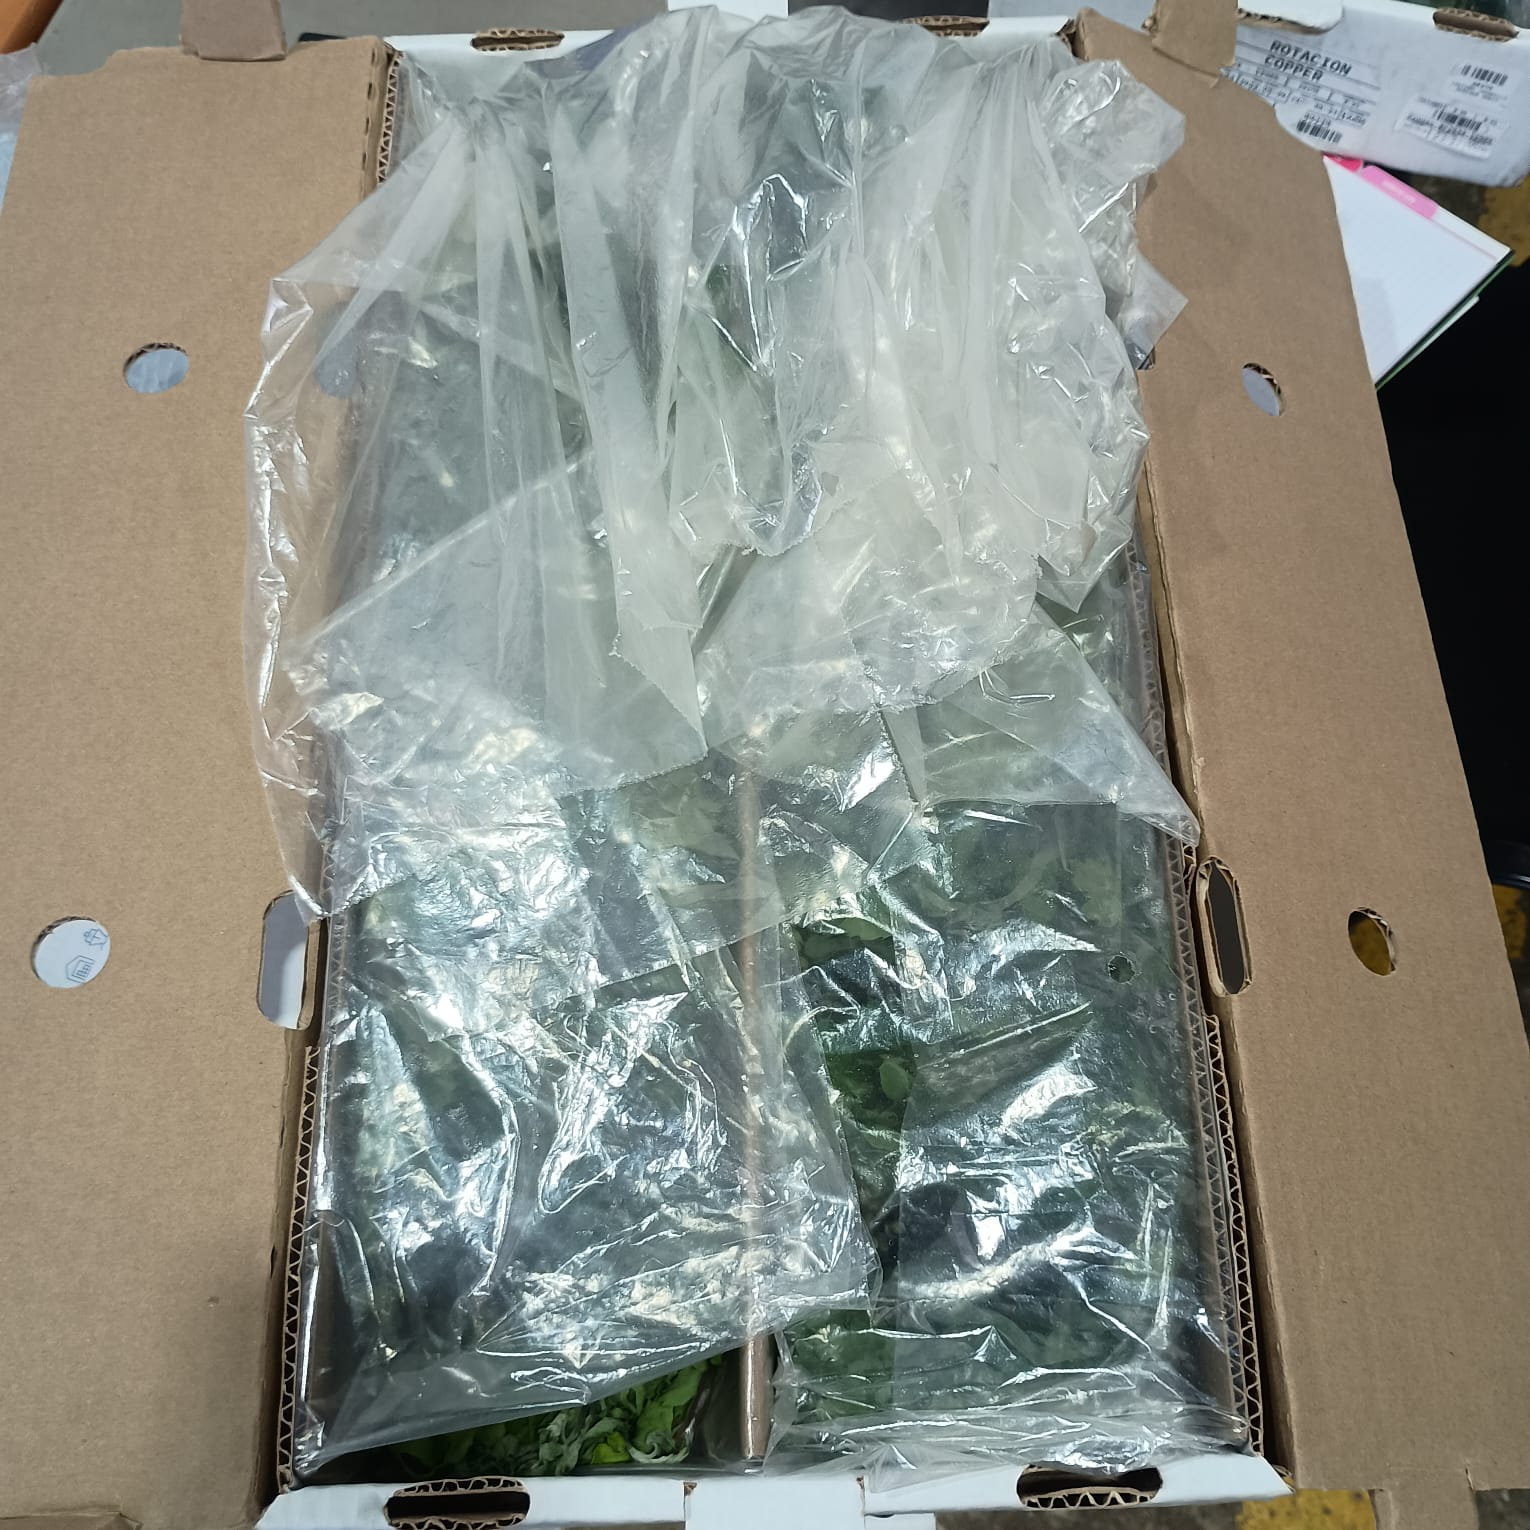
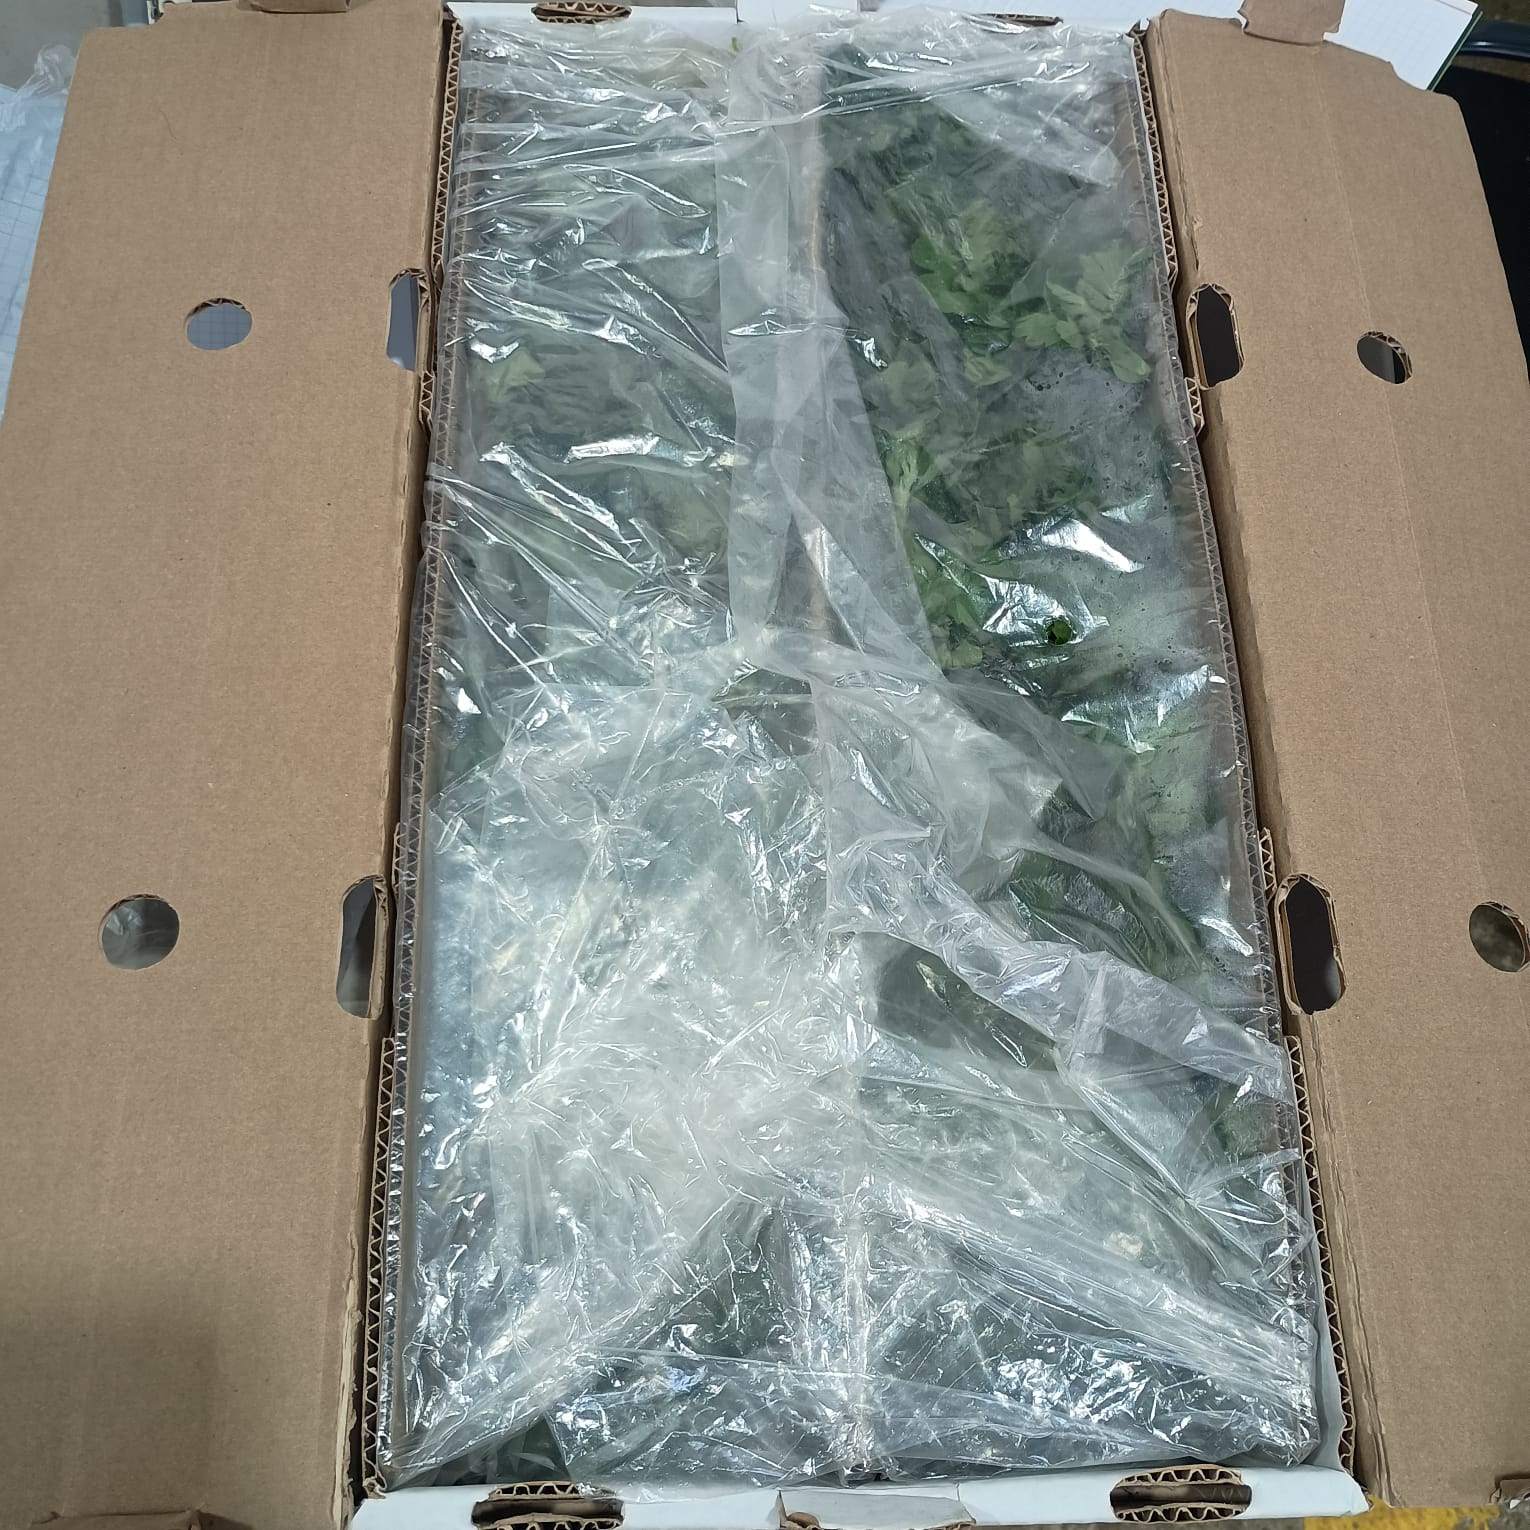
ajustes hasta la variedad #7

diff --git a/index.html b/index.html
@@ -215,7 +215,7 @@
               <a class="boton" href="muestra_6/m6.html">Ver Datos</a>
               <a class="boton boton-secundario" href="muestra_6/img_m6.html#muestra-6">Fotos</a>
             </td>
-            <td class="estado">Activo</td>
+            <td class="estado">No activo</td>
            </tr>
            <tr>
             <td class="numero">7</td>
@@ -242,11 +242,22 @@
            <tr>
             <td class="numero">9</td>
             <td class="variedad">Arctic Queen</td>
-            <td>06</td>
+            <td>03</td>
             <td>1450 esquejes</td>
             <td class="acciones">
               <a class="boton" href="muestra_9/m9.html">Ver Datos</a>
               <a class="boton boton-secundario" href="muestra_9/img_m9.html#muestra-9">Fotos</a>
+            </td>
+            <td class="estado">Activo</td>
+           </tr>
+           <tr>
+            <td class="numero">10</td>
+            <td class="variedad">Lychee</td>
+            <td>11</td>
+            <td>900 esquejes</td>
+            <td class="acciones">
+              <a class="boton" href="muestra_10/m10.html">Ver Datos</a>
+              <a class="boton boton-secundario" href="muestra_10/img_m10.html#muestra-10">Fotos</a>
             </td>
             <td class="estado">Activo</td>
            </tr>

diff --git a/muestra_7/img_m7.html b/muestra_7/img_m7.html
@@ -140,11 +140,16 @@
     <h2>Muestra #7 - Lina</h2>
     <p>Evidencia fotográfica de la Muestra #7.</p>
     <div class="galeria">
-      <div class="foto-placeholder"><img src="img_m7/info_caja.jpeg" alt="Información sobre la caja"><p>Información sobre la caja</p></div>
-      <div class="foto-placeholder"><img src="img_m7/empaque.jpeg" alt="Empaque de esquejes"><p>Empaque de esquejes</p></div>
+      <div class="foto-placeholder"><img src="img_m7/empaque_campo.jpeg" alt="Empaque en el campo"><p>Empaque en el campo</p></div>
+      <div class="foto-placeholder"><img src="img_m7/campo.jpeg" alt="Campo"><p>Empaque en el campo</p></div>
+      <div class="foto-placeholder"><img src="img_m7/inf_caja.jpeg" alt="Información sobre la caja"><p>Información sobre la caja</p></div>
+      <div class="foto-placeholder"><img src="img_m7/empaque_plast.jpeg" alt="Empaque de esquejes"><p>Empaque de esquejes</p></div>
+      <div class="foto-placeholder"><img src="img_m7/conformidad.jpeg" alt="Conformidad del empaque"><p>Conformidad del empaque</p></div>
       <div class="foto-placeholder"><img src="img_m7/esqueje.jpeg" alt="Estado del esqueje"><p>Estado del esqueje</p></div>
-      <div class="foto-placeholder"><img src="img_m7/muestra_7.jpeg" alt="Muestra"><p>Muestra</p></div>
-      <div class="foto-placeholder"><img src="img_m7/deshidratación.jpeg" alt="Deshidratación"><p>Deshidratación en el extremo no cubierto</p></div>
+      <div class="foto-placeholder"><img src="img_m7/estado_esquej.jpeg" alt="Estado del esqueje"><p>Estado del esqueje</p></div>
+      <div class="foto-placeholder"><img src="img_m7/empaque_dañado.jpeg" alt="Empaque dañado"><p>Empaque dañado</p></div>
+      <div class="foto-placeholder"><img src="img_m7/exposición.jpeg" alt="Exposición al sol"><p>Exposición al frío</p></div>
+      <div class="foto-placeholder"><img src="img_m7/exposición_2.jpeg" alt="Exposición al sol"><p>Exposición al frío</p></div>
 
     </div>
   </section>

diff --git a/muestra_3/m3.html b/muestra_3/m3.html
@@ -95,11 +95,14 @@
 
   <h1>Informe de Empaque de Esquejes a Granel</h1>
 
+   <a class="anexo-link" href="img_m3.html#muestra-3">Ver anexo fotográfico de la Muestra #3</a>
+
   <main class="muestras-grid">
   <section class="muestra">
     <h2>Muestra #3 - Copper</h2>
     <table>
       <tr><th>Fecha de revisión</th><td>24/06/2026</td></tr>
+      <tr><th>Fecha de cosecha</th><td>Semana 22, Día 2</td></tr>
       <tr><th>Variedad</th><td>Copper</td></tr>
       <tr><th>Bloque</th><td>08</td></tr>
       <tr><th>Cama</th><td>8 A</td></tr>
@@ -110,19 +113,17 @@
       <tr><th>Posición de esqueje</th><td>Alternando bases de esqueje (base de esqueje arriba, cogollo abajo y base de esqueje abajo, cogollo arriba)</td></tr>
       </td></tr>
       <tr><th>Cantidad</th><td>1600 esquejes</td></tr>
-      <tr><th>Tiempo empleado en cosecha y empaque</th><td>40 minutos 75</td></tr>
-      <tr><th>Fecha de cosecha</th><td>Semana 22, Día 2</td></tr>
+      <tr><th>Tiempo empleado en cosecha y empaque</th><td>40 minutos 55 segundos</td></tr>
       <tr><th>Estado del esqueje</th><td class="estado">
             <ul>
                 <li>Buena apariencia</li>
                 <li>Hidratado</li>
-                <li>Uniformidad en el empaque</li>
+                <li>Hojas en buen estado</li>
             </ul></td>
         </tr>
-      <tr><th>Observaciones</th><td>El empaque presenta una buena calidad y el esqueje se encuentra en óptimas condiciones.</td></tr>
+      <tr><th>Observaciones</th><td>El empaque presenta una buena calidad y el esqueje se encuentra en óptimas condiciones, considerando que el plastico cubre en su totalidad el área de la caja de empaque, y eso ayuda a conservar el producto.</td></tr>
         
     </table>
-    <a class="anexo-link" href="img_m3.html#muestra-3">Ver anexo fotográfico de la Muestra #3</a>
   </section>
 
   </main>

diff --git a/muestra_4/m4.html b/muestra_4/m4.html
@@ -95,11 +95,14 @@
 
   <h1>Informe de Empaque de Esquejes a Granel</h1>
 
+  <a class="anexo-link" href="img_m4.html#muestra-4">Ver anexo fotográfico de la Muestra #4</a>
+
   <main class="muestras-grid">
   <section class="muestra">
     <h2>Muestra #4 - Copper</h2>
     <table>
       <tr><th>Fecha de revisión</th><td>24/06/2026</td></tr>
+      <tr><th>Fecha de cosecha</th><td>Semana 22, Día 2</td></tr>
       <tr><th>Variedad</th><td>Copper</td></tr>
       <tr><th>Bloque</th><td>08</td></tr>
       <tr><th>Cama</th><td>2 A</td></tr>
@@ -111,18 +114,16 @@
       </td></tr>
       <tr><th>Cantidad</th><td>1600 esquejes</td></tr>
       <tr><th>Tiempo empleado en cosecha y empaque</th><td>41 minutos 75 segundos</td></tr>
-      <tr><th>Fecha de cosecha</th><td>Semana 22, Día 2</td></tr>
       <tr><th>Estado del esqueje</th><td class="estado">
             <ul>
                 <li>Buena apariencia</li>
-                <li>Hidratado (En su mayoría, solo un extremo deshidratado)</li>
-                <li>Uniformidad en el empaque</li>
+                <li>Hidratado (En su mayoría, solo una parte de un extremo deshidratado)</li>
             </ul></td>
         </tr>
-      <tr><th>Observaciones</th><td>El empaque presenta una buena calidad, aunque se logra evidenciar una ligera deshidratación al esqueje que se encontraba en el extremo no cubierto con el plástico.</td></tr>
+      <tr><th>Observaciones</th><td>El empaque presenta una buena calidad, es uniforme. Se evidendia una ligera deshidratación al esqueje que se encontraba en el extremo no cubierto con el plástico. Considerar que el empaque de esta caja, el plastico no pasa por debajo de la base de la caja, sino que cumple también la base de la misma</td></tr>
         
     </table>
-    <a class="anexo-link" href="img_m4.html#muestra-4">Ver anexo fotográfico de la Muestra #4</a>
+    
   </section>
 
   </main>

diff --git a/muestra_6/m6.html b/muestra_6/m6.html
@@ -94,29 +94,30 @@
   <a class="volver-index" href="../index.html">← Volver al Índice</a>
 
   <h1>Informe de Empaque de Esquejes a Granel</h1>
+  
+    <a class="anexo-link" href="img_m6.html#muestra-6">Ver anexo fotográfico de la Muestra #6</a>
 
   <main class="muestras-grid">
   <section class="muestra">
     <h2>Muestra #6 - Amethyst Yellow  -  Primer chequeo</h2>
     <table>
       <tr><th>Fecha de revisión</th><td>02/07/2026</td></tr>
+      <tr><th>Fecha de cosecha</th><td>Semana 26, Día 4</td></tr>
       <tr><th>Variedad</th><td>Amethyst Yellow</td></tr>
       <tr><th>Bloque</th><td>06</td></tr>
       <tr><th>Cama</th><td>4 B</td></tr>
       <tr><th>Cosechador</th><td>Taborda Jimenez Robinson</td></tr>
       <tr><th>Tipo de caja</th><td>Caja 8vo larga</td></tr>
-      <tr><th>Tipo de plástico</th><td>Plastico microperforado grande</td></tr>
+      <tr><th>Tipo de plástico</th><td>Plástico microperforado grande</td></tr>
       <tr><th>Cobertura del empaque</th><td>Poca cobertura, deja expuesta un extremo de la caja sin protección del plástico</td></tr>
       <tr><th>Posición de esqueje</th><td>Alternando bases de esqueje (base de esqueje arriba, cogollo abajo y base de esqueje abajo, cogollo arriba)</td></tr>
       </td></tr>
       <tr><th>Cantidad</th><td>1250 esquejes</td></tr>
       <tr><th>Tiempo empleado en cosecha y empaque</th><td>31 minutos 07 segundos</td></tr>
-      <tr><th>Fecha de cosecha</th><td>Semana 26, Día 4</td></tr>
       <tr><th>Estado del esqueje</th><td class="estado">
             <ul>
                 <li>Con grandes signos de deshidratación</li>
                 <li>Color verde opaco</li>
-                <li>Uniformidad en el empaque</li>
             </ul></td>
         </tr>
       <tr><th>Observaciones</th><td>El esqueje se encuentra empacado de forma uniforme, aunque se evidencia que la variedad se encuentra deshidratada posiblemente por la falta de la cobertura del plástico. <br>Se presencia dificultad de uso de la caja en el carro del cosechador debido a su diseño.</td></tr>
@@ -133,7 +134,7 @@
       
       <tr><th>Estado del esqueje</th><td class="estado">
             <ul>
-                <li>Con grandes signos de deshidratación</li>
+                <li>Deshidratado</li>
                 <li>Hojas completamente enrolladas</li>
                 <li>Color verde opaco</li>
             </ul></td>
@@ -141,7 +142,6 @@
       <tr><th>Observaciones</th><td>Pasado 15 días de la fecha de cosecha, se logra observar un esqueje que no cumple, ya que se encuentra completamente deshidratado. Se evidencia que el empaque no ha sido adecuado para preservar la calidad del esqueje.</td></tr>
         
     </table>
-    <a class="anexo-link" href="img_m6.html#muestra-6">Ver anexo fotográfico de la Muestra #6</a>
   </section>
 
   </main>

diff --git a/muestra_5/m5.html b/muestra_5/m5.html
@@ -94,12 +94,15 @@
   <a class="volver-index" href="../index.html">← Volver al Índice</a>
 
   <h1>Informe de Empaque de Esquejes a Granel</h1>
+  
+  <a class="anexo-link" href="img_m5.html#muestra-5">Ver anexo fotográfico de la Muestra #5</a>
 
   <main class="muestras-grid">
   <section class="muestra">
     <h2>Muestra #5 - Copper</h2>
     <table>
       <tr><th>Fecha de revisión</th><td>24/06/2026</td></tr>
+      <tr><th>Fecha de cosecha</th><td>Semana 22, Día 2</td></tr>
       <tr><th>Variedad</th><td>Copper</td></tr>
       <tr><th>Bloque</th><td>08</td></tr>
       <tr><th>Cama</th><td>3 A</td></tr>
@@ -111,18 +114,15 @@
       </td></tr>
       <tr><th>Cantidad</th><td>1600 esquejes</td></tr>
       <tr><th>Tiempo empleado en cosecha y empaque</th><td>37 minutos 20 segundos</td></tr>
-      <tr><th>Fecha de cosecha</th><td>Semana 22, Día 2</td></tr>
       <tr><th>Estado del esqueje</th><td class="estado">
             <ul>
                 <li>Buena apariencia</li>
                 <li>Hidratado (En su mayoría, solo un extremo deshidratado)</li>
-                <li>Uniformidad en el empaque</li>
             </ul></td>
         </tr>
-      <tr><th>Observaciones</th><td>El empaque presenta una buena calidad, aunque se logra evidenciar una ligera deshidratación al esqueje que se encontraba en el extremo no cubierto con el plástico.</td></tr>
+      <tr><th>Observaciones</th><td>El empaque en algunos puntos no es uniforme, aunque en su mayoría es aceptable. Como consecuencia de una mala posición del plástico, se logra evidenciar una ligera deshidratación en un extremo de la caja.</td></tr>
         
     </table>
-    <a class="anexo-link" href="img_m5.html#muestra-5">Ver anexo fotográfico de la Muestra #5</a>
   </section>
 
   </main>

diff --git a/muestra_3/img_m3.html b/muestra_3/img_m3.html
@@ -142,7 +142,10 @@
     <div class="galeria">
       <div class="foto-placeholder"><img src="img_m3/inf_caja.jpeg" alt="Información sobre la caja"><p>Información sobre la caja</p></div>
       <div class="foto-placeholder"><img src="img_m3/empaque.jpeg" alt="Empaque de esquejes"><p>Empaque de esquejes</p></div>
-      <div class="foto-placeholder"><img src="img_m3/esqueje.jpeg" alt="Estado del esqueje"><p>Estado del esqueje</p></div>
+      <div class="foto-placeholder"><img src="img_m3/Estado_esqueje.jpeg" alt="Estado del esqueje"><p>Estado del esqueje</p></div>
+      <div class="foto-placeholder"><img src="img_m3/estado_esq.jpeg" alt="Estado del esqueje"><p>Estado del esqueje</p></div>
+      <div class="foto-placeholder"><img src="img_m3/lado_der.jpeg" alt="Lado derecho"><p>Lado derecho</p></div>
+      <div class="foto-placeholder"><img src="img_m3/lado_izq.jpeg" alt="Lado izquierdo"><p>Lado izquierdo</p></div>
       <div class="foto-placeholder"><img src="img_m3/muestra_3.jpeg" alt="Muestra"><p>Muestra</p></div>
     </div>
   </section>

diff --git a/muestra_5/img_m5.html b/muestra_5/img_m5.html
@@ -142,7 +142,10 @@
     <div class="galeria">
       <div class="foto-placeholder"><img src="img_m5/info_caja.jpeg" alt="Información sobre la caja"><p>Información sobre la caja</p></div>
       <div class="foto-placeholder"><img src="img_m5/empaque.jpeg" alt="Empaque de esquejes"><p>Empaque de esquejes</p></div>
-      <div class="foto-placeholder"><img src="img_m5/esqueje.jpeg" alt="Estado del esqueje"><p>Estado del esqueje</p></div>
+      <div class="foto-placeholder"><img src="img_m5/estado_esqueje.jpeg" alt="Estado del esqueje"><p>Estado del esqueje</p></div>
+      <div class="foto-placeholder"><img src="img_m5/estado.jpeg" alt="Estado del esqueje"><p>Estado del esqueje</p></div>
+      <div class="foto-placeholder"><img src="img_m5/lado_der.jpeg" alt="Lado derecho"><p>Lado derecho</p></div>
+      <div class="foto-placeholder"><img src="img_m5/lado_izq.jpeg" alt="Lado izquierdo"><p>Lado izquierdo y deshidratación en lado no cubierto por plástico</p></div>
       <div class="foto-placeholder"><img src="img_m5/muestra_5.jpeg" alt="Muestra"><p>Muestra</p></div>
       <div class="foto-placeholder"><img src="img_m5/deshidratación.jpeg" alt="Deshidratación"><p>Deshidratación en el extremo no cubierto</p></div>
 

diff --git a/muestra_4/img_m4.html b/muestra_4/img_m4.html
@@ -143,8 +143,10 @@
       <div class="foto-placeholder"><img src="img_m4/inf_caja.jpeg" alt="Información sobre la caja"><p>Información sobre la caja</p></div>
       <div class="foto-placeholder"><img src="img_m4/empaque.jpeg" alt="Empaque de esquejes"><p>Empaque de esquejes</p></div>
       <div class="foto-placeholder"><img src="img_m4/esqueje.jpeg" alt="Estado del esqueje"><p>Estado del esqueje</p></div>
+      <div class="foto-placeholder"><img src="img_m4/estado_esqueje.jpeg" alt="Estado del esqueje"><p>Estado del esqueje</p></div>
+      <div class="foto-placeholder"><img src="img_m4/lado_der.jpeg" alt="Lado derecho"><p>Lado derecho</p></div>
+      <div class="foto-placeholder"><img src="img_m4/lado_izq.jpeg" alt="Lado izquierdo"><p>Lado izquierdo y deshidratación en lado no cubierto por plástico</p></div>
       <div class="foto-placeholder"><img src="img_m4/muestra_4.jpeg" alt="Muestra"><p>Muestra</p></div>
-      <div class="foto-placeholder"><img src="img_m4/deshidratación_baja.jpeg" alt="Deshidratación baja"><p>Deshidratación en el extremo no cubierto</p></div>
     </div>
   </section>
 

diff --git a/muestra_2/m2.html b/muestra_2/m2.html
@@ -118,9 +118,7 @@
       <tr><th>Estado del esqueje</th><td class="estado">
             <ul>
                 <li>Deshidratado</li>
-                <li>Sin orden en el empaque</li>
                 <li>Leve presencia de maltrato</li>
-                <li>No hay alineación homogénea en el empaque</li>
             </ul></td>
         </tr>
       <tr><th>Observaciones</th><td>Se observa deshidratación en el material vegetal, un empaque deficiente que compromete la calidad del producto y durabilidad del mismo, y un plástico que no cubría en su totalidad todo el área de la caja de empaque, por lo que el esqueje quedó expuesto a condiciones adversas.</td></tr>